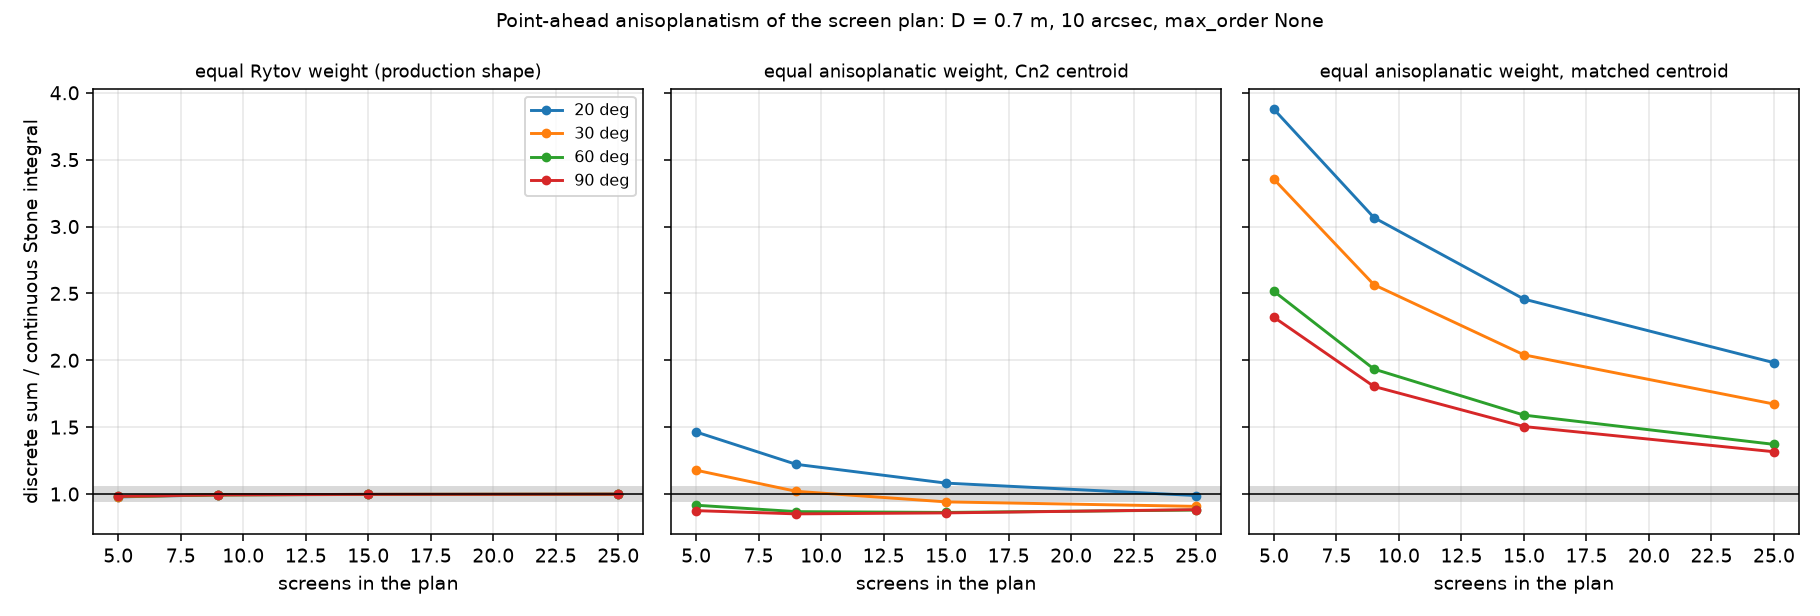
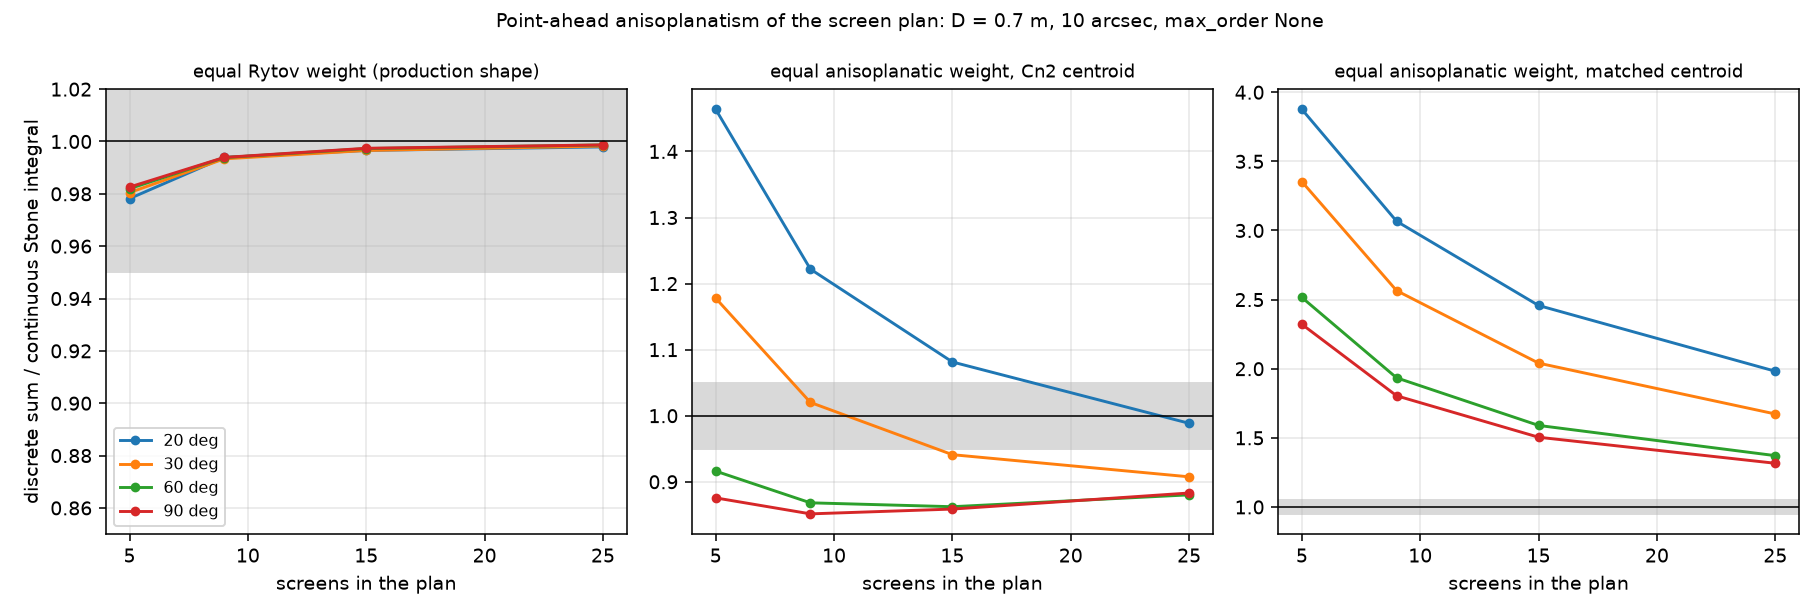
validation(anisoplanatism): give the production panel its own axis
The two equal-anisoplanatic panels read up to 4, so a shared axis showed
the production family as a flat line. Each panel keeps its own axis and
the production panel spans 0.85 to 1.02.

diff --git a/validation/anisoplanatism_screens/anisoplanatism_screens.py b/validation/anisoplanatism_screens/anisoplanatism_screens.py
@@ -566,7 +566,10 @@ def plot(rows):
     panels = (("n", "equal Rytov weight (production shape)"),
               ("aniso", "equal anisoplanatic weight, Cn2 centroid"),
               ("anisoc", "equal anisoplanatic weight, matched centroid"))
-    fig, axes = plt.subplots(1, len(panels), figsize=(13.0, 4.4), sharey=True)
+    # Each panel keeps its OWN axis. The two equal-anisoplanatic families read
+    # up to 4, and a shared axis would flatten the production panel, whose
+    # whole spread sits inside 0.85 to 1.02.
+    fig, axes = plt.subplots(1, len(panels), figsize=(13.0, 4.4), sharey=False)
     for ax, (family, title) in zip(axes, panels):
         for el in sorted({r["elevation_deg"] for r in rows}):
             xs, ys = [], []
@@ -587,6 +590,7 @@ def plot(rows):
         ax.set_title(title, fontsize=9)
         ax.grid(alpha=0.3)
     axes[0].set_ylabel("discrete sum / continuous Stone integral")
+    axes[0].set_ylim(0.85, 1.02)
     axes[0].legend(fontsize=8)
     fig.suptitle("Point-ahead anisoplanatism of the screen plan: "
                  "D = 0.7 m, 10 arcsec, max_order None", fontsize=10)
